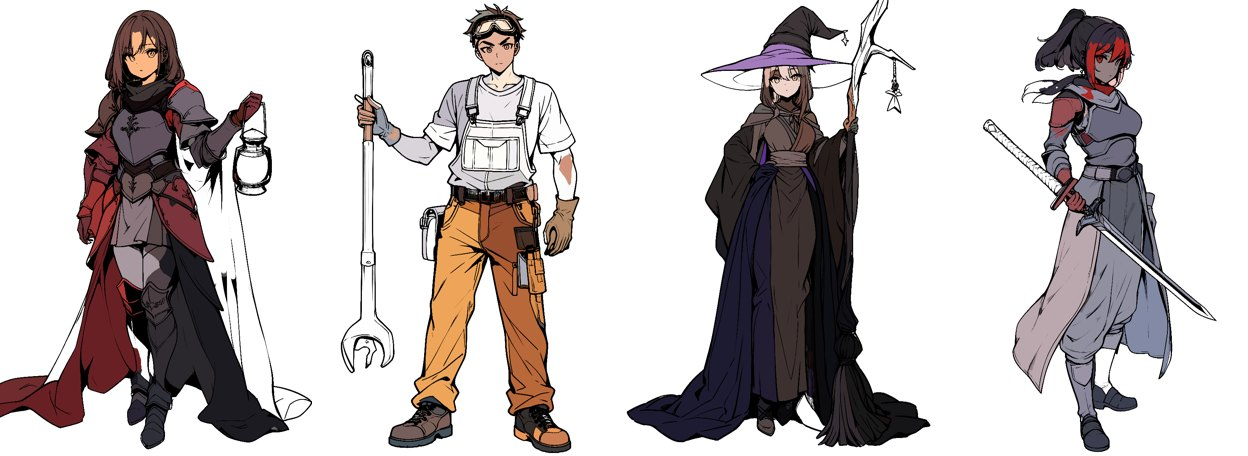
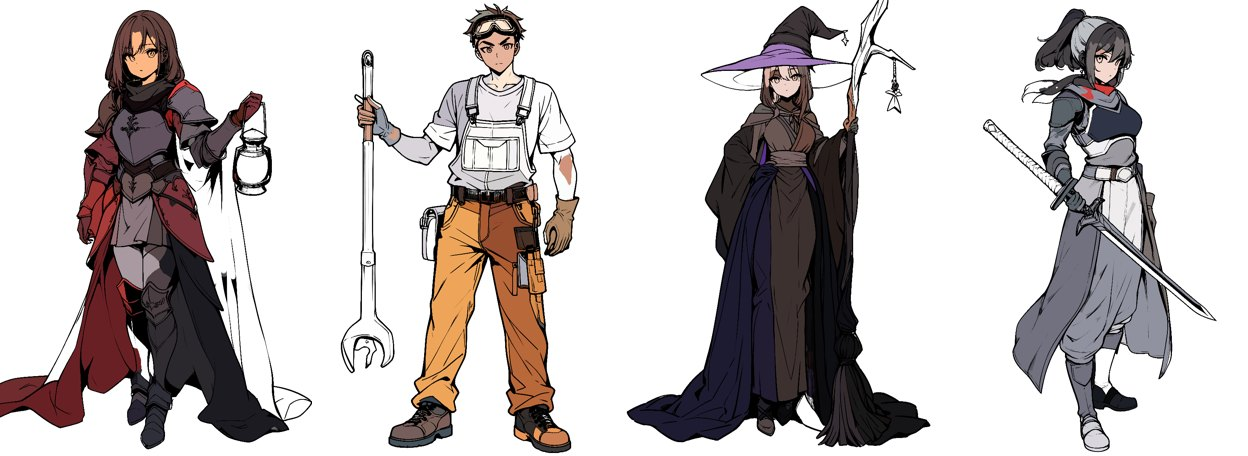
色の参考の部位分けを確かめ、崩れた参考を飛ばして色を置く命令を足す
Claude-Session: https://claude.ai/code/session_01Raj3ZHMvaTdhHcmmGwa9QK

Changed region(s): [[0.8125, 0.0307, 0.9375, 1.0]]

diff --git a/tools/gen/lineart.py b/tools/gen/lineart.py
@@ -7,6 +7,8 @@
   python3 tools/gen/lineart.py draw "1girl, knight, plate armor, ..." OUTDIR [--count 2] [--seed 3]
   python3 tools/gen/lineart.py clean IN.png OUT.png        # 灰色の陰影を除き、黒い線と白い地だけにする
   python3 tools/gen/lineart.py ends IN.png                 # 線の切れ端の数（少ないほど線が閉じている）
+  python3 tools/gen/lineart.py color LINE.png REF.png [REF2.png ...] OUT.png
+      # 色付きの参考（形は違ってよい）から部位で色を合わせて置く。部位分けが崩れた参考は飛ばし、通った最初の参考を使う
 """
 import argparse
 import json
@@ -84,6 +86,21 @@ def middle_color(pixels: np.ndarray) -> np.ndarray:
     どちらでもない灰色になった（技師の作業着）。実際にある色から選ぶ"""
     lum = pixels.astype(float) @ np.array([0.299, 0.587, 0.114])
     return pixels[np.argsort(lum)[len(lum) // 2]]
+
+
+def reference_ok(reference: np.ndarray, ref_parts: np.ndarray) -> list[str]:
+    """参考の絵の部位分けが崩れていないかを見る。崩れた参考で色を置くと、別の物の色が乗る
+    （剣士の参考で、大きくなびく赤い襟巻きが「顔」とされ、顔の面が赤や暗い灰色になった）。
+    顔が肌の色に見えること（赤が一番明るく、緑が赤の 0.55 倍以上）を見る。理由の一覧を返す（空なら使える）"""
+    why = []
+    face = ref_parts == 11
+    if face.sum() < 300:
+        why.append("顔が取れない")
+    else:
+        r, g, b = middle_color(reference[face]).astype(float)
+        if not (r >= g >= b * 0.8 and r > 120 and g >= r * 0.55):
+            why.append(f"顔の色が肌に見えない（{int(r)}, {int(g)}, {int(b)}）")
+    return why
 
 
 def color_by_parts(line: np.ndarray, line_parts: np.ndarray, reference: np.ndarray, ref_parts: np.ndarray,
@@ -196,6 +213,24 @@ def ends(src: str) -> dict:
     return {"ends": tips, "length": int(sk.sum()), "ends_per_1000": round(tips / max(sk.sum(), 1) * 1000, 2)}
 
 
+def color(line_path: str, refs: list[str], out: str) -> dict:
+    sys.path.insert(0, str(Path(__file__).parent))
+    import edit
+    line = np.asarray(Image.open(line_path).convert("L"))
+    lp = np.asarray(edit.parts(line_path).resize(line.shape[::-1], Image.NEAREST))
+    skipped = {}
+    for ref in refs:
+        r = np.asarray(Image.open(ref).convert("RGB").resize(line.shape[::-1]))
+        rp = np.asarray(edit.parts(ref).resize(line.shape[::-1], Image.NEAREST))
+        why = reference_ok(r, rp)
+        if why:
+            skipped[ref] = why
+            continue
+        Image.fromarray(color_by_parts(line, lp, r, rp)).save(out)
+        return {"out": out, "reference": ref, "skipped": skipped}
+    return {"out": None, "skipped": skipped}
+
+
 def main():
     ap = argparse.ArgumentParser(description=__doc__, formatter_class=argparse.RawDescriptionHelpFormatter)
     sub = ap.add_subparsers(dest="cmd", required=True)
@@ -203,11 +238,14 @@ def main():
     d.add_argument("prompt"); d.add_argument("out"); d.add_argument("--count", type=int, default=2); d.add_argument("--seed", type=int, default=3)
     c = sub.add_parser("clean")
     c.add_argument("src"); c.add_argument("out")
+    co = sub.add_parser("color")
+    co.add_argument("paths", nargs="+")
     e = sub.add_parser("ends")
     e.add_argument("src")
     a = ap.parse_args()
     r = {"draw": lambda: draw(a.prompt, a.out, a.count, a.seed), "clean": lambda: clean(a.src, a.out),
-         "ends": lambda: ends(a.src)}[a.cmd]()
+         "ends": lambda: ends(a.src),
+         "color": lambda: color(a.paths[0], a.paths[1:-1], a.paths[-1])}[a.cmd]()
     print(json.dumps(r, ensure_ascii=False))
 
 

diff --git a/tests/test_lineart.py b/tests/test_lineart.py
@@ -126,5 +126,15 @@ class FlatFill(unittest.TestCase):
         self.assertEqual(tuple(out[50, 0]), (255, 255, 255))   # 人物の外は白
 
 
+    def test_reference_with_red_face_is_rejected(self):
+        ref = np.zeros((60, 60, 3), np.uint8)
+        parts = np.zeros((60, 60), np.uint8)
+        parts[10:40, 10:40] = 11
+        ref[10:40, 10:40] = (250, 205, 175)               # 肌の色の顔
+        self.assertEqual(lineart.reference_ok(ref, parts), [])
+        ref[10:40, 10:40] = (172, 41, 38)                 # 赤い襟巻きを顔と取った参考
+        self.assertTrue(lineart.reference_ok(ref, parts))
+
+
 if __name__ == "__main__":
     unittest.main()

diff --git a/docs/knowledge/ai-drawing-notes.md b/docs/knowledge/ai-drawing-notes.md
@@ -26,6 +26,8 @@
 | AI の線画は顔と髪のあいだの線が閉じないことがある。線で閉じた面だけで塗る | 顔と髪が1つの面になり、顔が髪の色になる。髪・顔・肌の境目でだけ面を分けると直った。服の境目まで分けると、布の上で境目が揺れてマントがまだらになった | lineart.md |
 | 参考の絵で隠れた部位（スカートの下の脚）は色の取り先が無い | 白いまま残ってスカートに白い斑点ができた。隣の面の色で埋めると消えた。部位分けの小さな切れ端を別の面にすると、襟巻きに肌色の点が乗った。小さい切れ端は面の多い方にまとめると消えた | lineart.md |
 | 参考の絵の形が線画と大きく違う（剣士の参考は襟巻きが大きくなびく） | 部位の中の位置の対応がずれ、襟巻きの赤が髪に乗り、顔が暗い灰色になった。形が近い騎士・技師・魔女では外れが少ない | lineart.md |
+| 色の参考を描かせると、構図によって部位分けが崩れる（なびく襟巻きを顔と取る） | 崩れた参考で色を置くと顔が赤や灰色になる。顔の色が肌に見えるかで参考を確かめ、落ちたら別の回の参考に替えると顔が肌色になった | lineart.md |
+| 白い布を、明るさが真ん中の画素の色で塗る | 陰影の分だけ暗い灰色になる（剣士の袴） | lineart.md |
 | 色を赤・緑・青で別々に真ん中を取る | 白と橙が混ざる所で、どちらでもない灰色になる。実際にある画素から選ぶと起きない | lineart.md |
 | 塗った絵を部位分けで下塗りし、計算した影を置く | 元の絵の形と光が消え、汚くなる（使うのをやめた） | painting-workflow.md |
 | 鉛筆のラフを下敷きに色を描かせる（強さ 0.8） | 白黒のまま返る。0.93 にすると構えを残して色が乗る | app/PLAN.md |
